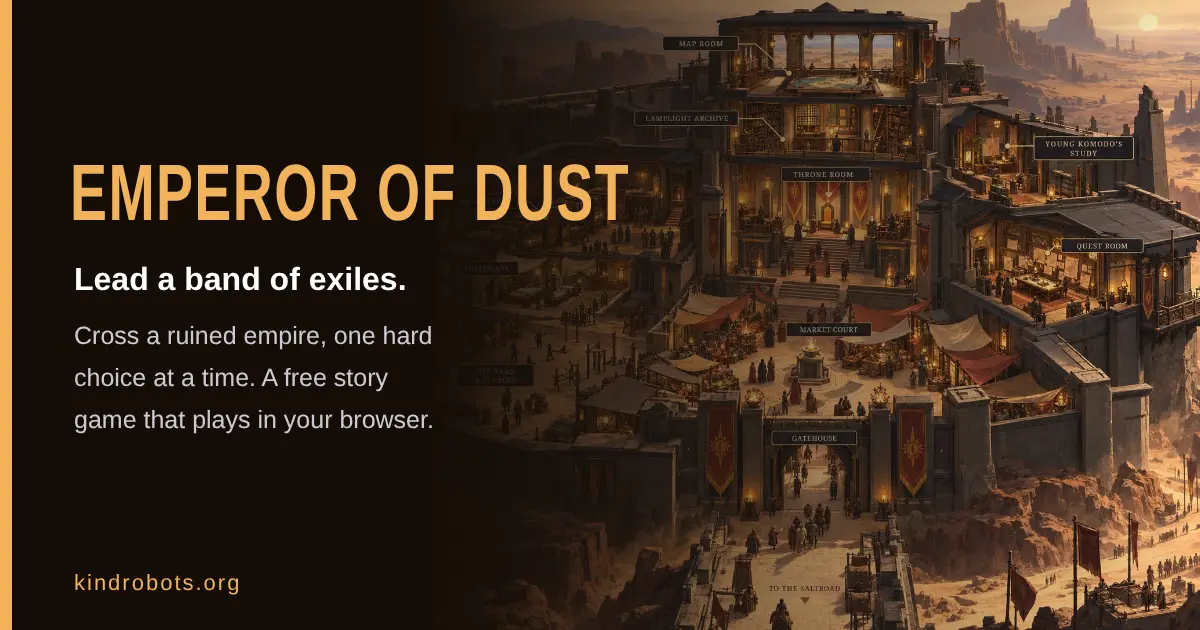
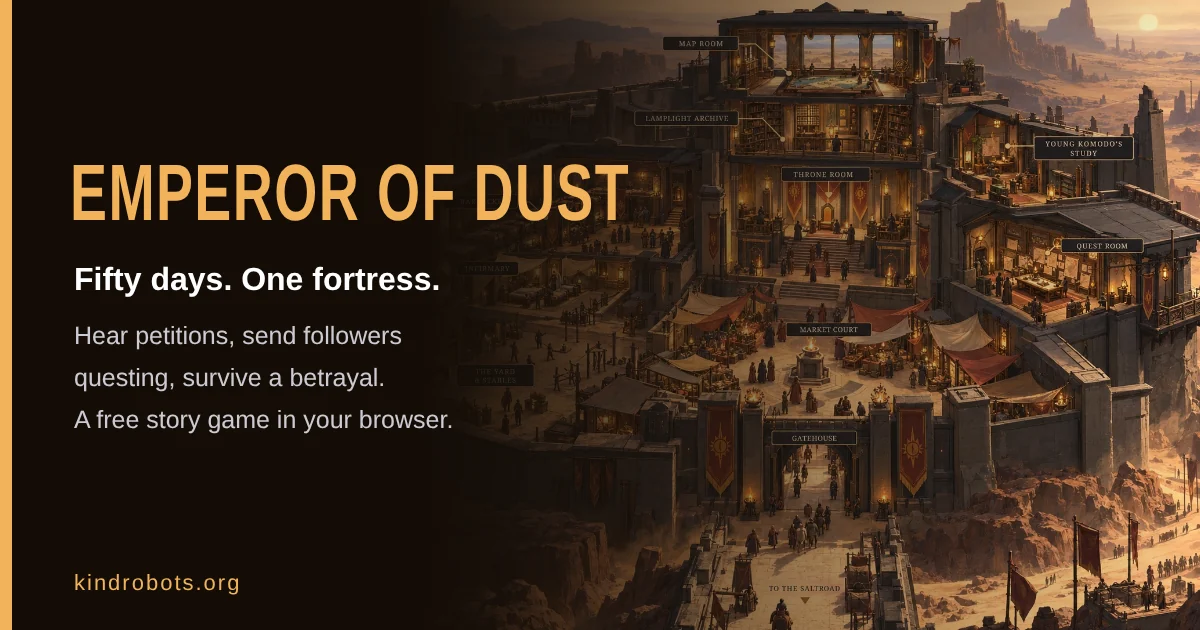
Fix share-card copy that misdescribes five games (#5189)
Found while writing the Play-game adverts (Silas, 2026-11-14: "fix all").
- Shifting Desks: "a classroom puzzle where the furniture will not sit
  still" described a different game; now the workplace card adventure.
- Emperor of Dust: the "lead a band of exiles across a ruined empire" pitch
  predates the fifty-day fortress game; description and card updated.
- Crystal Street: the card said TWENTY-TWO NIGHTMARES; there are 23 villain
  files (poster.svg, re-exported link-preview.webp).
- Slime City and Hybridizer promised "no account needed", but both Play
  tabs require sign-in (navigation-access sends guests to /login);
  descriptions and cards no longer say so. Slime City's description also
  names its crews instead of "a city of slimes".

verifyGameLinkPreview now locks these in: sign-in-gated games never promise
no account, the stale pitches stay gone, and the Crystal Street card counts
the real number of nightmares.

Claude-Session: https://claude.ai/code/session_01L5NKxZZ7t3SRMwKDECC6Rn

Changed region(s): [[0.0617, 0.5127, 0.37, 0.6937], [0.0617, 0.4222, 0.37, 0.4825]]

diff --git a/utils/scripts/verifyGameLinkPreview.test.ts b/utils/scripts/verifyGameLinkPreview.test.ts
@@ -1,5 +1,5 @@
 import assert from 'node:assert/strict'
-import { existsSync, readFileSync } from 'node:fs'
+import { existsSync, readFileSync, readdirSync } from 'node:fs'
 import { join } from 'node:path'
 import {
   GAME_LINK_PREVIEWS,
@@ -108,4 +108,65 @@ const tankPage = readFileSync(
   'utf8',
 )
 assert.ok(tankPage.includes('publicTankLinkPreviewMeta('), 'tank page wired')
+// Silas, 2026-11-14: share cards must match the games as they ship. A game
+// whose Play tab requires sign-in never promises "no account needed", and
+// Crystal Street's card counts its real nightmares.
+for (const [slug, tab] of [
+  ['slime-city', 'slime-city'],
+  ['hybridizer', 'hybridizer'],
+] as const) {
+  const tabSource = readFileSync(
+    join(process.cwd(), `content/channels/arcade/${tab}.md`),
+    'utf8',
+  )
+  if (/^requiredPermission: authenticated$/m.test(tabSource)) {
+    assert.doesNotMatch(
+      GAME_LINK_PREVIEWS[slug]!.description,
+      /no account needed/i,
+      `${slug}: sign-in game must not promise no account`,
+    )
+    const card = join(pub, slug, 'link-preview.svg')
+    if (existsSync(card)) {
+      assert.doesNotMatch(readFileSync(card, 'utf8'), /no account/i)
+    }
+  }
+}
+assert.doesNotMatch(
+  GAME_LINK_PREVIEWS['shifting-desks']!.description,
+  /classroom/i,
+)
+assert.doesNotMatch(
+  GAME_LINK_PREVIEWS['emperor-of-dust']!.description,
+  /exiles/i,
+)
+assert.doesNotMatch(
+  readFileSync(join(pub, 'emperor-of-dust/link-preview.svg'), 'utf8'),
+  /band of exiles|ruined empire/i,
+)
+const nightmareWords = [
+  '',
+  'ONE',
+  'TWO',
+  'THREE',
+  'FOUR',
+  'FIVE',
+  'SIX',
+  'SEVEN',
+  'EIGHT',
+  'NINE',
+]
+const villainCount = readdirSync(
+  join(process.cwd(), 'utils/crystalStreet/villains'),
+).filter((file) => file.endsWith('.json')).length
+const tens = ['', '', 'TWENTY', 'THIRTY'][Math.floor(villainCount / 10)]
+const spelled = [tens, nightmareWords[villainCount % 10]]
+  .filter(Boolean)
+  .join('-')
+assert.ok(
+  readFileSync(join(pub, 'crystal-street/poster.svg'), 'utf8').includes(
+    `${spelled} NIGHTMARES`,
+  ),
+  `Crystal Street card must count ${villainCount} nightmares (${spelled})`,
+)
+
 console.log('game link preview checks passed')

diff --git a/utils/gameLinkPreview.ts b/utils/gameLinkPreview.ts
@@ -25,7 +25,7 @@ export const GAME_LINK_PREVIEWS: Record<string, GameLinkPreview> = {
   'emperor-of-dust': {
     title: 'Emperor of Dust | Kind Robots',
     description:
-      'Lead a band of exiles across a ruined empire. A free story game in your browser.',
+      'Rule a salvage fortress for fifty days: hear petitions, send followers on quests and survive a betrayal. A free story game in your browser.',
     image: '/emperor-of-dust/link-preview.webp',
   },
   'game-of-captains': {
@@ -61,13 +61,13 @@ export const GAME_LINK_PREVIEWS: Record<string, GameLinkPreview> = {
   'shifting-desks': {
     title: 'Shifting Desks | Kind Robots',
     description:
-      'A classroom puzzle where the furniture will not sit still. Free to play in your browser.',
+      'A darkly comic card adventure through a very strange workplace, where every choice costs something. Free to play in your browser.',
     image: '/shifting-desks/link-preview.webp',
   },
   'slime-city': {
     title: 'Slime City | Kind Robots',
     description:
-      'Brawl, scheme and campaign through a city of slimes. Quick CPU matches and story campaigns, free in your browser, no account needed.',
+      'Six rival crews fight for a grungy neon megacity in fast card battles. Story campaigns, CPU matches and private duels, free in your browser.',
     image: '/slime-city/link-preview.webp',
   },
   'zuzu-gamebook': {
@@ -175,7 +175,7 @@ export const GAME_LINK_PREVIEWS: Record<string, GameLinkPreview> = {
   hybridizer: {
     title: 'Hybridizer | Kind Robots',
     description:
-      'Fuse any two creatures and discover their impossible cousin. A free fusion lab in your browser, no account needed to look around.',
+      'Fuse any two creatures and discover their impossible cousin. A free fusion lab in your browser.',
     image: '/hybridizer/link-preview.webp',
   },
   'comic-studio': {
